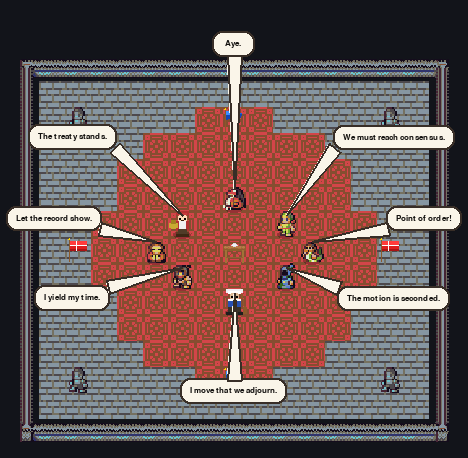
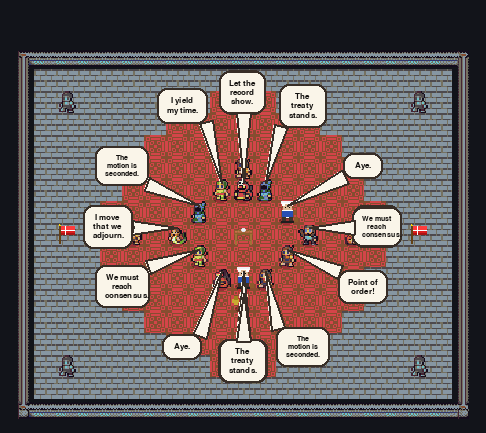
Size speech bubbles to fit between neighbours and screen
Lay bubbles out in two passes: first place each on the fan ring by its angle,
then compute the largest box it can occupy from the angular gap to its nearest
neighbour (and the radial room to the screen edge). Text wraps into that box,
so few speakers get big bubbles and crowded scenes pack many small ones with
no overlap.

diff --git a/src/word_play/presets/renderers/pygame_renderer/draw.py b/src/word_play/presets/renderers/pygame_renderer/draw.py
@@ -1194,50 +1194,75 @@ def draw_speech_bubbles(
         if entity not in bubble_groups.setdefault(group_key, []):
             bubble_groups[group_key].append(entity)
 
-    # Fan bubbles outward from the centroid of everyone currently speaking, so
-    # several simultaneous bubbles spread around the scene instead of stacking
-    # on top of each other. Each bubble still grows a tail pointing back at its
-    # speaker, so it stays clear who is talking no matter how far it is pushed.
-    anchor_of: dict[Entity, tuple[int, int]] = {}
+    # Bubbles fan out from the centroid of everyone speaking. Each is sized to
+    # the largest box that fits between its angular neighbours and the screen
+    # edge; its text then wraps into that box. So a lone speaker gets a big
+    # bubble, while a crowded debate packs many smaller ones with no overlap —
+    # every bubble keeps a tail pointing back at its own speaker.
+    world_width = renderer.effect_surface.get_width()
+    world_height = renderer.effect_surface.get_height()
+    half_min = 0.5 * min(world_width, world_height)
+    tile = max(1, renderer.tile_size)
+
+    anchors = []
     for entity, _text, entity_rect, _group_key in visible_bubbles:
-        anchor_of[entity] = (
+        anchors.append((
             entity_rect.centerx,
-            entity_rect.top + max(4, min(renderer.tile_size // 6, entity_rect.height // 3)),
-        )
-    centroid_x = sum(ax for ax, _ in anchor_of.values()) / len(anchor_of)
-    centroid_y = sum(ay for _, ay in anchor_of.values()) / len(anchor_of)
+            entity_rect.top + max(4, min(tile // 6, entity_rect.height // 3)),
+        ))
+    centroid_x = sum(ax for ax, _ in anchors) / len(anchors)
+    centroid_y = sum(ay for _, ay in anchors) / len(anchors)
     concurrent = len(visible_bubbles)
 
-    for entity, text, entity_rect, group_key in visible_bubbles:
+    # ── Pass 1: geometry — direction of each bubble away from the crowd. ──
+    specs: list[dict[str, Any]] = []
+    for (entity, text, entity_rect, group_key), (anchor_x, anchor_y) in zip(visible_bubbles, anchors):
         renderable = renderable_component(entity)
         scale = getattr(renderable, "speech_bubble_scale", 1.0) if renderable is not None else 1.0
-
         group = bubble_groups[group_key]
-        columns, rows = overlap_grid_dimensions(len(group))
-        col, row, row_slots = centered_grid_slot(group.index(entity), len(group), columns)
+        columns, _ = overlap_grid_dimensions(len(group))
+        col, _, row_slots = centered_grid_slot(group.index(entity), len(group), columns)
+        dx, dy = anchor_x - centroid_x, anchor_y - centroid_y
+        angle = -math.pi / 2 if math.hypot(dx, dy) < 1e-3 else math.atan2(dy, dx)
+        if len(group) > 1:  # spread co-located speakers so their slices differ
+            angle += (col - (row_slots - 1) / 2) * 0.30
+        specs.append({
+            "entity": entity, "text": text, "scale": scale,
+            "anchor_x": anchor_x, "anchor_y": anchor_y, "angle": angle,
+        })
 
-        anchor_x = entity_rect.centerx
-        anchor_y = entity_rect.top + max(4, min(renderer.tile_size // 6, entity_rect.height // 3))
+    ring_radius = 0.0 if concurrent <= 1 else min(0.62 * half_min, tile * (2.0 + 0.5 * concurrent))
 
-        world_width = renderer.effect_surface.get_width()
-        world_height = renderer.effect_surface.get_height()
+    # ── Pass 2: how large a box each bubble may occupy given its neighbours. ──
+    if concurrent > 1:
+        order = sorted(range(concurrent), key=lambda i: specs[i]["angle"])
+        m = len(order)
+        for oi, idx in enumerate(order):
+            here = specs[idx]["angle"]
+            prev_a = specs[order[(oi - 1) % m]]["angle"]
+            next_a = specs[order[(oi + 1) % m]]["angle"]
+            gap = min((here - prev_a) % (2 * math.pi), (next_a - here) % (2 * math.pi))
+            chord = 2 * ring_radius * math.sin(min(math.pi, gap) / 2)  # spacing to nearest neighbour
+            specs[idx]["max_w"] = max(tile * 1.6, chord * 0.9)
+        radial_room = min(half_min * 0.96 - ring_radius, ring_radius - tile * 1.3)
+        max_box_h = max(tile * 2.2, 2.0 * max(0.0, radial_room))
+    else:
+        specs[0]["max_w"] = min(world_width * 0.6, tile * 8.0)
+        max_box_h = world_height * 0.5
 
-        pad_left = max(int(10 * scale), int(renderer.tile_size * 0.18 * scale))
-        pad_right = max(int(10 * scale), int(renderer.tile_size * 0.18 * scale))
-        pad_top = max(int(8 * scale), int(renderer.tile_size * 0.14 * scale))
-        pad_bottom = max(int(9 * scale), int(renderer.tile_size * 0.16 * scale))
-        tail_width = max(int(14 * scale), int(renderer.tile_size * 0.5 * scale))
-        tail_height = max(int(10 * scale), int(renderer.tile_size * 0.26 * scale))
-        radius = max(int(10 * scale), int(renderer.tile_size * 0.24 * scale))
+    # ── Pass 3: wrap text into the fitted box, then place and draw. ──
+    for spec in specs:
+        entity, text, scale = spec["entity"], spec["text"], spec["scale"]
+        anchor_x, anchor_y, angle = spec["anchor_x"], spec["anchor_y"], spec["angle"]
 
-        # Dynamic sizing: the bubble hugs its text. Long messages wrap at a cap
-        # that tightens as more agents speak at once (so crowded scenes stay
-        # readable); short messages get correspondingly small bubbles.
-        crowd_factor = 1.0 if concurrent <= 2 else max(0.55, 1.0 - (concurrent - 2) * 0.06)
-        max_content_width = max(
-            int(renderer.tile_size * 2.0 * scale),
-            int(min(world_width * 0.5, renderer.tile_size * 7.0) * scale * crowd_factor),
-        )
+        pad_left = pad_right = max(int(10 * scale), int(tile * 0.18 * scale))
+        pad_top = max(int(8 * scale), int(tile * 0.14 * scale))
+        pad_bottom = max(int(9 * scale), int(tile * 0.16 * scale))
+        tail_width = max(int(14 * scale), int(tile * 0.5 * scale))
+        tail_height = max(int(10 * scale), int(tile * 0.26 * scale))
+        radius = max(int(10 * scale), int(tile * 0.24 * scale))
+
+        max_content_width = max(int(tile * 1.4), int(spec["max_w"]) - pad_left - pad_right)
         speech_font, lines = fit_wrapped_text_lines(
             list(renderer.speech_fonts[:-1]) if len(renderer.speech_fonts) > 1 else renderer.speech_fonts,
             text,
@@ -1246,49 +1271,28 @@ def draw_speech_bubbles(
         )
         text_surfaces = [speech_font.render(line, True, (18, 16, 14)) for line in lines]
         text_width = max(surface.get_width() for surface in text_surfaces)
-        line_gap = max(1, int(renderer.tile_size * 0.02))
-        text_height = sum(surface.get_height() for surface in text_surfaces) + max(0, len(text_surfaces) - 1) * line_gap
+        line_gap = max(1, int(tile * 0.02))
+        text_height = sum(s.get_height() for s in text_surfaces) + max(0, len(text_surfaces) - 1) * line_gap
 
-        min_content_width = max(tail_width + 6, int(renderer.tile_size * 0.9 * scale))
+        min_content_width = max(tail_width + 6, int(tile * 0.9 * scale))
         content_w = max(min_content_width, min(text_width, max_content_width))
         bubble_width = content_w + pad_left + pad_right
-        bubble_height = max(int(renderer.tile_size * 0.66 * scale), text_height + pad_top + pad_bottom)
-
-        # Default: a bubble floats just above its speaker's head (single speaker).
-        baseline_cx = float(anchor_x)
-        baseline_cy = float(anchor_y - tail_height - bubble_height / 2)
-
-        # Radial outward direction from the crowd's centre through this speaker;
-        # co-located speakers (same group) get a small angular spread so their
-        # bubbles also separate. The push grows with the number of speakers.
-        direction_x = anchor_x - centroid_x
-        direction_y = anchor_y - centroid_y
-        distance = math.hypot(direction_x, direction_y)
-        if distance < 1e-3:
-            angle = -math.pi / 2  # nobody to fan away from — point straight up
-        else:
-            angle = math.atan2(direction_y, direction_x)
-        if len(group) > 1:
-            angle += (col - (row_slots - 1) / 2) * 0.30
-        unit_x, unit_y = math.cos(angle), math.sin(angle)
-
-        max_push = 0.40 * min(world_width, world_height)
-        push = 0.0 if concurrent <= 1 else min(
-            max_push, (concurrent - 1) * (renderer.tile_size * 0.55 + bubble_height * 0.12)
+        bubble_height = min(
+            int(max_box_h),
+            max(int(tile * 0.66 * scale), text_height + pad_top + pad_bottom),
         )
-        bubble_cx = baseline_cx + unit_x * push
-        bubble_cy = baseline_cy + unit_y * push
+
+        if concurrent <= 1:  # lone speaker: bubble floats just above the head
+            bubble_cx = float(anchor_x)
+            bubble_cy = float(anchor_y - tail_height - bubble_height / 2)
+        else:  # seat the bubble on the fan ring at its own angle
+            bubble_cx = centroid_x + math.cos(angle) * ring_radius
+            bubble_cy = centroid_y + math.sin(angle) * ring_radius
 
         bubble_x = int(bubble_cx - bubble_width / 2)
         bubble_y = int(bubble_cy - bubble_height / 2)
-        if world_width > bubble_width + 12:
-            bubble_x = max(6, min(bubble_x, world_width - bubble_width - 6))
-        else:
-            bubble_x = 6
-        if world_height > bubble_height + 12:
-            bubble_y = max(6, min(bubble_y, world_height - bubble_height - 6))
-        else:
-            bubble_y = 6
+        bubble_x = max(6, min(bubble_x, world_width - bubble_width - 6)) if world_width > bubble_width + 12 else 6
+        bubble_y = max(6, min(bubble_y, world_height - bubble_height - 6)) if world_height > bubble_height + 12 else 6
         content_left = bubble_x + pad_left
         content_top = bubble_y + pad_top
         content_width = bubble_width - pad_left - pad_right